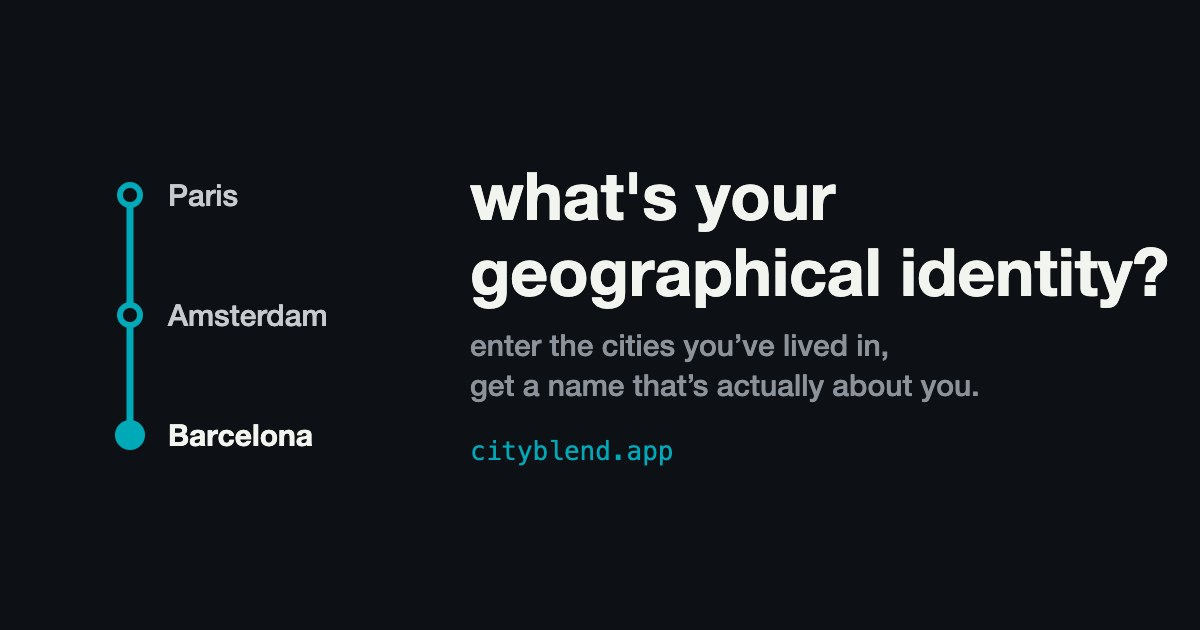
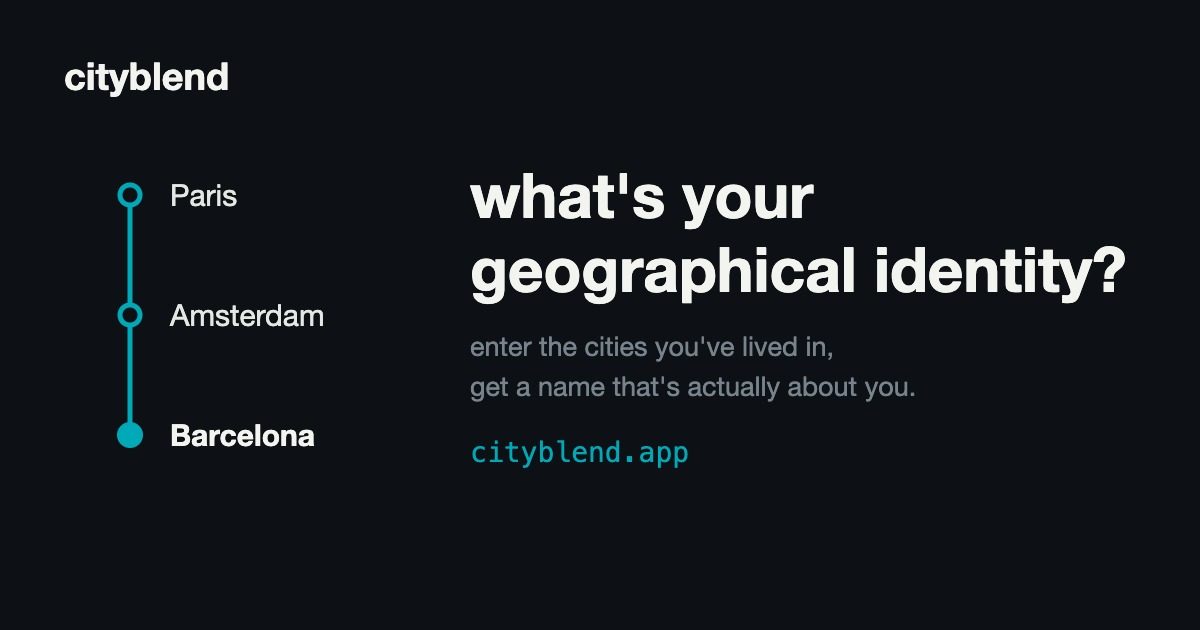
Make the name visible: card wordmark, louder domain, page header
A tester couldn't explain how anyone seeing a posted card would know to
make their own — the card's footer was the only bridge across that gap and
it was the faintest thing on the card (3cqw, 5.0:1, ~11px at story scale),
with the domain no heavier than the words in front of it.

- Card: constant near-white "cityblend" wordmark above the handle. Free —
  the top row's height is set by the 17cqw badge and the handle used only
  ~4.5cqw of it. Not the per-person line colour: a brand that changes
  colour every card is not a brand anyone learns.
- Card footer: "and you? →" stays muted, "cityblend.app" goes bold
  near-white at 3.4cqw (5.0:1 -> 16.4:1) in the same footprint. No second
  CTA at the top — the card gets posted because it's dry.
- Page: left-aligned icon + wordmark. The name previously appeared nowhere
  a visitor could see it, so arriving from a shared card confirmed nothing
  and nobody could recommend it by name.
- Its height is paid for out of the existing budget, not added: the
  example card's top offset is 226px with the header exactly as it was
  without one, so the fold behaves identically and the clamp constant is
  unchanged.
- OG image regenerated with the wordmark, same approved composition.

Verified: 2/3/4/8-stop cards, DOM and canvas, no ink in the gap above the
footer in any case; result card and example card both correct.

diff --git a/css/style.css b/css/style.css
@@ -40,15 +40,48 @@ body {
   -webkit-font-smoothing: antialiased;
 }
 
+/* padding-top was 48px. The header below is paid for out of the existing
+   budget rather than added to it — the fold is the binding constraint on this
+   page (see the clamp on .cardwrap--example .card), and a naively-inserted
+   header pushes "make yours" back off a phone screen, which is the exact
+   problem that clamp was written to solve. Measured, not estimated: the top
+   of the example card sits at 226px with the header exactly as it did without
+   one, so the clamp constant below is unchanged and no phone loses the CTA
+   that had it before. */
 .page {
   max-width: 480px;
   margin: 0 auto;
-  padding: 48px 20px 32px;
+  padding: 16px 20px 32px;
+}
+
+/* 26px: reads as product identity at a glance without competing with the
+   1.9rem hero directly beneath it. The 12px gap is tight on purpose — it's
+   what makes the row net-free against the fold budget, and a header sitting
+   close to the content it heads is the normal look anyway. */
+.brand {
+  display: flex;
+  align-items: center;
+  gap: 9px;
+  margin-bottom: 12px;
+}
+
+.brand img {
+  display: block;
+  width: 26px;
+  height: 26px;
+  border-radius: 6px;
+}
+
+.brand span {
+  font-size: 1.05rem;
+  font-weight: 700;
+  letter-spacing: -0.02em;
+  line-height: 1;
 }
 
 .hero {
   text-align: center;
-  margin-bottom: 32px;
+  margin-bottom: 26px;
 }
 
 .hero h1 {
@@ -90,8 +123,14 @@ body {
    fiction: Safari's URL bar and toolbar eat ~110px, so on a real phone the
    CTA dropped back below the fold. dvh tracks the actually-visible viewport
    (and updates as the chrome collapses on scroll), so the card yields space
-   rather than the button falling off. ~330px is the rest of the first screen:
-   hero + caption + CTA + margins. aspect-ratio then narrows the width to
+   rather than the button falling off. ~325px is the rest of the first screen:
+   header + hero + caption + CTA + margins — and that constant IS that
+   furniture, so if you change any spacing above the card, re-measure and
+   change it here too, or the CTA quietly sinks back below the fold. It stayed
+   at 325 when the page header was added: the header's height was taken back
+   out of .page's padding-top and .brand's own margin, verified by measuring
+   the card's top offset before and after (226px both times).
+   aspect-ratio then narrows the width to
    match, keeping 9:16 intact. Result cards are unaffected — they're below
    the fold by nature and should stay full size. */
 .cardwrap--example .card {
@@ -165,12 +204,35 @@ body {
   margin-bottom: calc(6.5cqw - var(--over) * 0.5cqw);
 }
 
+/* Left column of the top row. min-width:0 is load-bearing — without it the
+   handle's ellipsis can't kick in, because a flex item won't shrink below its
+   content's intrinsic width by default and a long handle would push the badge
+   off the card. */
+.c-id {
+  display: flex;
+  flex-direction: column;
+  gap: 1.2cqw;
+  min-width: 0;
+  padding-top: 1.4cqw;
+}
+
+/* Deliberately NOT var(--line): the accent changes per person across 9
+   colours, and a brand that changes colour every card is not a brand anyone
+   learns. Constant near-white also means it never has to be re-checked for
+   contrast against whichever accent a card happens to get. */
+.c-brand {
+  font-size: 3.6cqw;
+  font-weight: 700;
+  letter-spacing: -0.01em;
+  color: #F2F4F0;
+  line-height: 1;
+}
+
 .c-handle {
   font-family: ui-monospace, "SF Mono", SFMono-Regular, Menlo, Consolas, monospace;
   font-size: 3.2cqw;
   letter-spacing: 0.06em;
   color: #78848C;
-  padding-top: 1.4cqw;
   overflow: hidden;
   text-overflow: ellipsis;
   white-space: nowrap;
@@ -321,12 +383,23 @@ body {
 
 .route li.is-now .meta { color: var(--line); }
 
+/* Two weights on one line, not one uniform string: "and you?" is the tone,
+   "cityblend.app" is the instruction, and only the second one needs to survive
+   being seen at story scale. The domain goes 5.0:1 -> 16.4:1 and 400 -> 700
+   while the line's footprint barely moves, so the card gains a legible address
+   without turning into an advert someone would rather not post. */
 .c-foot {
   margin-top: auto;
   font-family: ui-monospace, "SF Mono", SFMono-Regular, Menlo, Consolas, monospace;
   font-size: 3cqw;
   letter-spacing: 0.04em;
   color: #78848C;
+}
+
+.c-foot b {
+  font-size: 3.4cqw;
+  font-weight: 700;
+  color: #F2F4F0;
 }
 
 .cta {

diff --git a/index.html b/index.html
@@ -41,6 +41,23 @@
 </head>
 <body>
   <main class="page">
+    <!-- The product's name, which appeared nowhere on the page before: not in
+         the hero, not in the form, only inside the example card's own footer
+         and the browser tab (which doesn't exist on mobile). So someone
+         arriving FROM a shared card that read "cityblend.app" landed on a page
+         that never confirmed they were in the right place, and nobody could
+         tell a friend the name of a thing they'd never seen written down.
+         Left, not centred: the hero, subhead, caption and button are all
+         centred already, and a centred wordmark merges into the headline —
+         it reads as part of the message rather than as the product's name.
+         Not a link: it would point at the page you're already on, and this
+         footer already lost one dead href for that reason. Same icon.svg as
+         the favicon, so tab, page and card are recognisably one thing. -->
+    <div class="brand">
+      <img src="/icon.svg" alt="" width="26" height="26">
+      <span>cityblend</span>
+    </div>
+
     <header class="hero">
       <h1>what's your geographical identity?</h1>
       <p class="subhead">enter the cities you've lived in, get a name and a line that's actually about you.</p>
@@ -58,8 +75,17 @@
       <p class="example-caption">an example — yours below</p>
       <div class="card" id="example-card" style="--n:2; --line:#00A9B8">
         <div class="card__inner">
+          <!-- The wordmark costs nothing vertically: this row's height is set
+               by the 17cqw badge, and the handle alone only used ~4.5cqw of
+               it, so ~13cqw sat empty. Stacking the brand above the handle
+               fills dead space rather than compressing the card. It's the
+               half of the pair that makes a stranger LEARN the name; the
+               footer is the half that tells them where to go. -->
           <div class="c-top">
-            <span class="c-handle" id="example-handle">@linh</span>
+            <div class="c-id">
+              <span class="c-brand">cityblend</span>
+              <span class="c-handle" id="example-handle">@linh</span>
+            </div>
             <span class="c-badge"><b id="example-count">2</b><i>stops</i></span>
           </div>
           <h2 class="c-identity" id="example-identity">the hanarsawian</h2>
@@ -68,7 +94,14 @@
             <li><span class="city">Hanoi</span><span class="meta">origin</span></li>
             <li class="is-now"><span class="city">Warsaw</span><span class="meta">now</span></li>
           </ol>
-          <span class="c-foot">and you? → cityblend.app</span>
+          <!-- This line is the whole growth loop: the only bridge between
+               someone seeing a posted card and making one. It used to be a
+               single uniform grey string, so the domain — the only part that
+               is actually actionable — carried no more weight than the words
+               in front of it, at 5.0:1 contrast and ~11px as rendered in an
+               Instagram story. The invitation stays quiet; the address it
+               points at does not. -->
+          <span class="c-foot">and you? → <b>cityblend.app</b></span>
         </div>
       </div>
     </section>
@@ -140,13 +173,16 @@
       <div class="card" id="result-card">
         <div class="card__inner">
           <div class="c-top">
-            <span class="c-handle" id="result-handle"></span>
+            <div class="c-id">
+              <span class="c-brand">cityblend</span>
+              <span class="c-handle" id="result-handle"></span>
+            </div>
             <span class="c-badge"><b id="result-count"></b><i>stops</i></span>
           </div>
           <h2 class="c-identity" id="result-identity"></h2>
           <p class="c-line" id="result-line"></p>
           <ol class="route" id="result-route"></ol>
-          <span class="c-foot">and you? → cityblend.app</span>
+          <span class="c-foot">and you? → <b>cityblend.app</b></span>
         </div>
       </div>
       <!-- Once the PNG exists it replaces the DOM card above, so that pressing

diff --git a/js/card-image.js b/js/card-image.js
@@ -144,7 +144,9 @@ function drawCard(ctx, data) {
   const padTop = 25.8 * u;
   const contentBottom = CARD_H - 36.5 * u;
   const innerW = CARD_W - padX * 2;
-  const footerSize = 3 * u;
+  // The bold domain is the tallest thing on the footer line, so it — not the
+  // muted prefix — is what the fit loop has to reserve room for.
+  const footerSize = 3.4 * u;
   const minGapAboveFooter = 3 * u;
 
   ctx.textBaseline = 'alphabetic';
@@ -177,14 +179,22 @@ function drawCard(ctx, data) {
 
   let y = padTop;
 
-  /* ---- handle + stop badge ---- */
+  /* ---- wordmark + handle + stop badge ---- */
   const badgeD = 17 * u;
   const handleSize = 3.2 * u;
+  const brandSize = 3.6 * u;
+
+  // Mirrors .c-id: 1.4u padding-top, then the wordmark box (3.6u, line-height
+  // 1), then a 1.2u gap, then the handle. The pair is ~9.4u tall against the
+  // badge's 17u, so it costs no height — the row was already this tall.
+  ctx.textAlign = 'left';
+  ctx.font = `700 ${brandSize}px ${FONT_SANS}`;
+  ctx.fillStyle = TEXT;
+  ctx.fillText('cityblend', padX, y + 1.4 * u + brandSize * 0.8);
 
   ctx.font = `${handleSize}px ${FONT_MONO}`;
   ctx.fillStyle = TEXT_MUTED;
-  ctx.textAlign = 'left';
-  ctx.fillText(data.handle, padX, y + 1.4 * u + handleSize * 0.85);
+  ctx.fillText(data.handle, padX, y + 1.4 * u + brandSize + 1.2 * u + handleSize * 0.85);
 
   const badgeCX = CARD_W - padX - badgeD / 2;
   const badgeCY = y + badgeD / 2;
@@ -278,10 +288,19 @@ function drawCard(ctx, data) {
     }
   });
 
-  /* ---- footer, baked into the image ---- */
-  ctx.font = `${3 * u}px ${FONT_MONO}`;
+  /* ---- footer, baked into the image ----
+   * Two weights sharing one baseline, mirroring .c-foot / .c-foot b. This is
+   * the only route from "saw someone's card" to "made my own", so the address
+   * is drawn to survive being viewed at story scale: 16.4:1 and bold, against
+   * 5.0:1 and regular for the invitation in front of it. */
+  const footPrefix = 'and you? → ';
   ctx.fillStyle = TEXT_MUTED;
-  ctx.fillText('and you? → cityblend.app', padX, contentBottom);
+  ctx.font = `${3 * u}px ${FONT_MONO}`;
+  ctx.fillText(footPrefix, padX, contentBottom);
+  const prefixW = ctx.measureText(footPrefix).width;
+  ctx.fillStyle = TEXT;
+  ctx.font = `700 ${3.4 * u}px ${FONT_MONO}`;
+  ctx.fillText('cityblend.app', padX + prefixW, contentBottom);
 }
 
 /* Returns a Promise<Blob> of the PNG. */

diff --git a/spec.md b/spec.md
@@ -32,9 +32,11 @@ Distribution: not Instagram-exclusive. Optimized for Instagram/WhatsApp Stories 
   - **Superseded (week 3):** originally specced as a horizontal dot row *plus* a separate text list of the same cities underneath. These were merged into one vertical route — the names sit on the dots, so the graphic is self-explanatory, eight stops fit down the long axis of a 9:16 frame (which horizontal never did), and the optional per-stop years finally have somewhere to live.
 - Stop-count badge, top right: the number of cities, large, in the route's colour. Not decoration — a visible comparable number turns a personal card into a scoreboard ("ha, I have four"), which is a reason to make your own. Uses "stops" because it's the one count honestly derivable from what someone typed (see the note on country counts under Cost & abuse protection).
 - General prompt-writing rule: favor a concrete, specific, countable detail ("moved 30km" — the specificity is the joke) over a closing cliché like "no notes" / "no regrets," which reads as filler, not observation.
-- Footer, baked into the image itself: "and you? → cityblend.app"
+- Footer, baked into the image itself: "and you? → **cityblend.app**"
   - Hook + destination combined — "and you?" invites the viewer to participate, the domain tells them where. Must be literal text on the image, not a clickable element — once downloaded/screenshotted to a story it's a flat image, no live links.
   - Longer explainer phrases (e.g. "what's your geographical identity") belong on the site's headline, not the card footer — footer needs to stay short.
+  - **Two weights on one line (week 5).** Originally one uniform muted grey string, which made the domain — the only actionable part — no more prominent than the words in front of it: 3cqw at 5.0:1 contrast, rendering at roughly 11px in an Instagram story. A tester's reaction was not "I didn't read it" but "I don't understand how anyone else would know how to make one", which is the whole growth loop failing at its only bridge. Now "and you? →" stays muted at 3cqw and the domain is bold near-white at 3.4cqw — 16.4:1, same footprint. Deliberately *not* enlarged into a banner and deliberately not paired with a second CTA at the top of the card: the card gets posted because it's dry, and an advert someone is embarrassed to carry converts worse than a quiet one they'll actually share.
+- Wordmark, top left, above the handle (week 5): a constant near-white "cityblend". Costs nothing — the top row's height is set by the 17cqw stop badge and the handle alone used ~4.5cqw of it, so ~13cqw was already dead space. Constant near-white, **not** the per-person line colour: a brand that changes colour on every card is not a brand anyone learns, and a fixed colour never has to be re-checked for contrast against whichever of the nine accents a card lands on. Pairs with the footer as a bookend — the wordmark is what makes a stranger learn the name, the footer is what tells them where to go.
 - Export: 9:16 image, downloadable, **full-bleed** (the image fills the whole story frame rather than floating as a card on a plain background — reads as intentional and designed rather than as a screenshot of a website)
   - Visual polish (typography, color, spacing) is pure front-end rendering — zero API cost either way. "Pretty" and "cheap" aren't in tension here.
   - **Square export deliberately skipped for v1.** A format picker puts a decision in front of someone at the highest-intent moment they'll ever have (the second they want to share), and it isn't a cheap resize — the vertical route is designed for the tall axis, so a square is a genuine second layout. Instead, keep the name, line and badge inside the centre square so a crop or grid repost still carries the hook. Revisit only if real requests come in.
@@ -135,6 +137,10 @@ Single mechanism covers both offensive content and unrelated/nonsense input (e.g
 ## Site structure
 
 Main page: not a bare form, not a heavy marketing page — a short hook. Headline (good home for "what's your geographical identity"-style copy), one example card shown as proof of what they'll get, a "make yours" button that reveals the input form. Most visitors arrive cold via a shared card with zero context — one good example sells the concept faster than explanatory text.
+
+Wordmark at the top of the page, left-aligned, icon + "cityblend" (added week 5). Until then the product's name appeared nowhere a visitor could see it: not in the hero, not in the form, only inside the example card's own footer and the browser tab, which doesn't exist on mobile. Two costs to that — someone arriving *from* a card that read "cityblend.app" got no confirmation they'd reached the right place, and nobody could recommend by name a thing they'd never seen written. Left rather than centred because the hero, subhead, caption and button are all centred already, and a centred wordmark merges into the headline: it reads as part of the message instead of as the product's name. Not a link — it would point at the page you're already on, and the footer already lost one dead `href` for exactly that reason.
+
+**Its height had to come out of the existing budget, not be added to it.** The fold is the binding constraint on this page (see "Open design call — homepage first screen"), so a naively-inserted header pushes "make yours" back off a phone screen — the precise failure the example-card clamp exists to prevent. Paid for by cutting `.page` padding-top and keeping the wordmark's own bottom margin tight, and verified by measurement rather than estimate: the example card's top offset is 226px with the header exactly as it was without one, so the `100dvh - 325px` constant is unchanged and no phone loses a CTA it previously had. If any spacing above the card changes again, re-measure and update that constant, or the CTA silently sinks.
 
 Stats page (linked quietly from the main page footer): public, aggregate only — total cities logged, top logged cities, a word-cloud of city names sized by frequency, average/typical path length ("most people log 3-4 cities"). Doubles as social proof (a growth mechanic itself) and as your own product visibility. Must NOT show individual handle+path records publicly — people submitted to make their own card, not to be listed without being asked.
 
